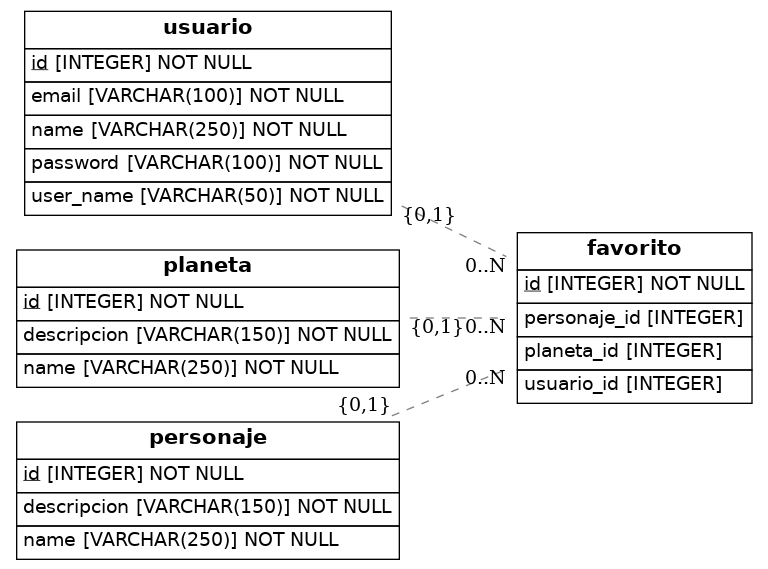
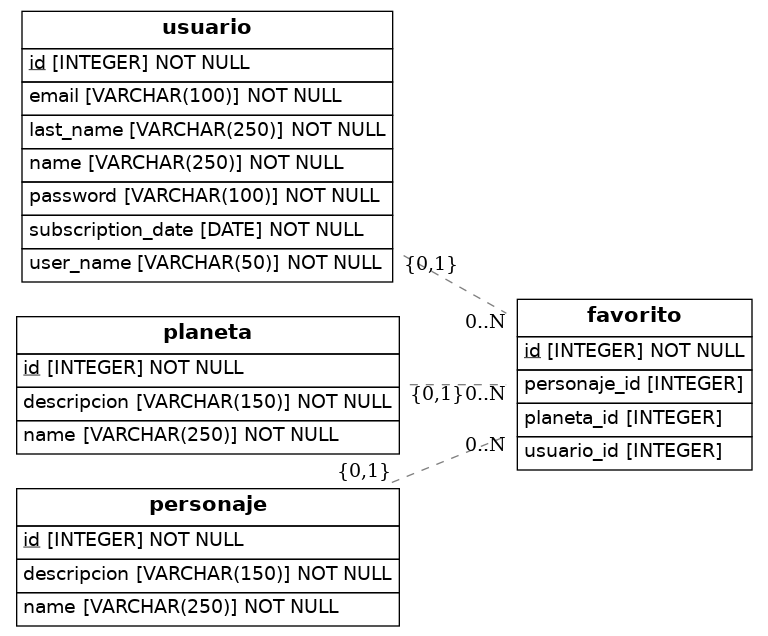
Star Wars Data Modeling Finalizado

Changed region(s): [[0.0, 0.0, 1.0, 0.9859]]

diff --git a/src/models.py b/src/models.py
@@ -1,6 +1,6 @@
 import os
 import sys
-from sqlalchemy import Column, ForeignKey, Integer, String
+from sqlalchemy import Column, ForeignKey, Integer, String, Date
 from sqlalchemy.orm import relationship, declarative_base
 from sqlalchemy import create_engine
 from eralchemy2 import render_er
@@ -13,9 +13,11 @@ class Usuario(Base):
     # Notice that each column is also a normal Python instance attribute.
     id = Column(Integer, primary_key=True)
     name = Column(String(250), nullable=False)
+    last_name = Column(String(250), nullable=False)
     email = Column(String(100), nullable=False)
     user_name = Column(String(50), nullable=False)
     password = Column(String(100), nullable=False)
+    subscription_date = Column(Date(), nullable=False)
 
 class Planeta(Base):
     __tablename__ = 'planeta'
